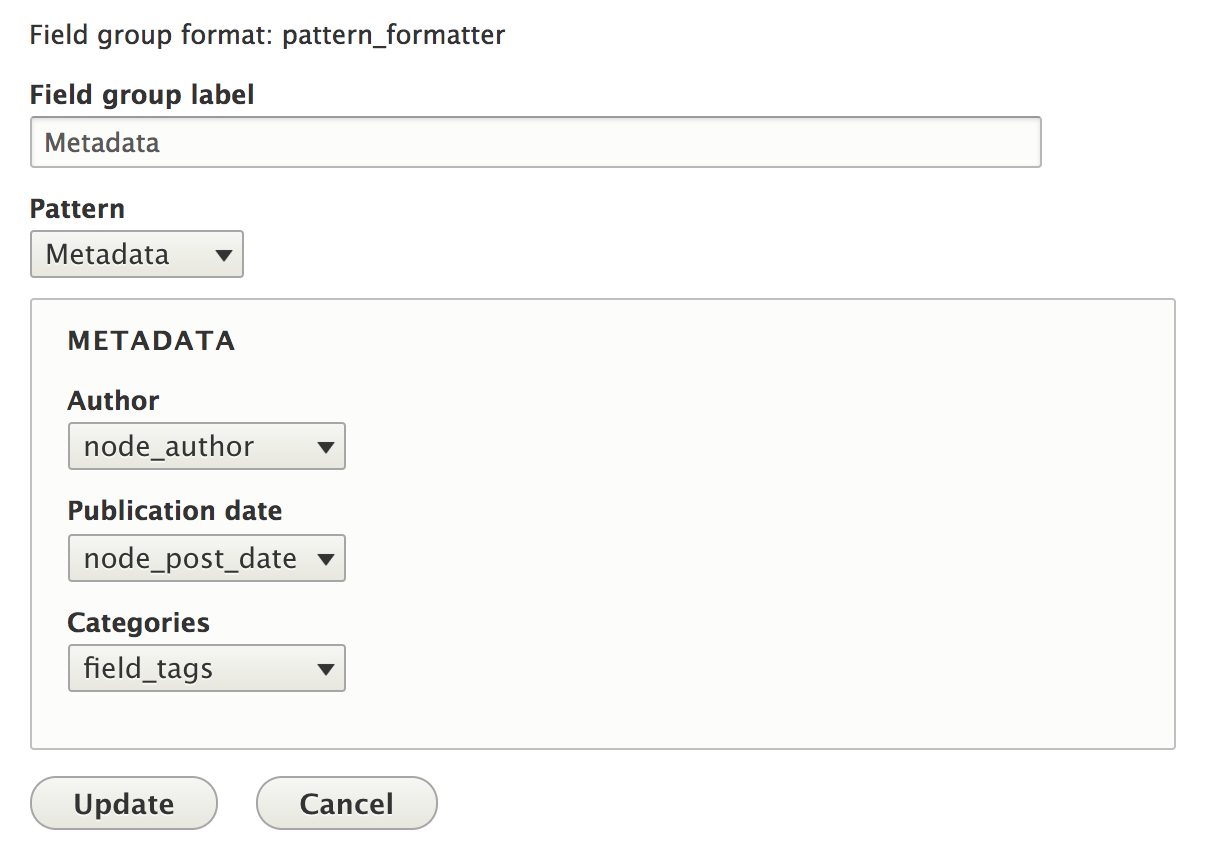
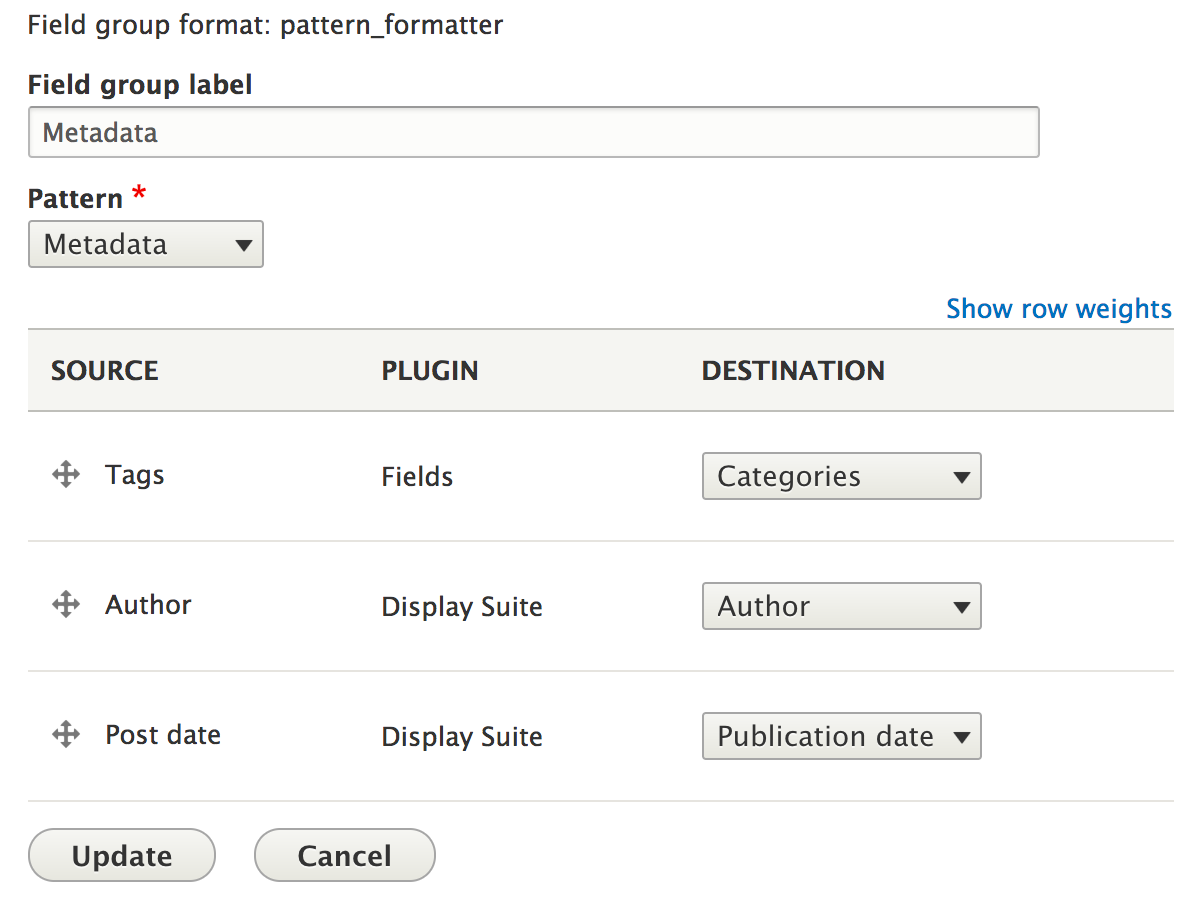
Add documentation.

diff --git a/docs/content/patterns-definition.rst b/docs/content/patterns-definition.rst
@@ -1,8 +1,8 @@
 Define your patterns
 --------------------
 
-UI patterns can be exposed by both modules and themes: all defined patterns are collected and managed by a centralized
-UI Pattern plugin manager, this means that pattern IDs must be unique in order to avoid conflicts.
+Patterns can be exposed by both modules and themes: all defined patterns are collected and managed by a centralized
+plugin manager, this means that pattern IDs must be unique in order to avoid conflicts.
 
 Pattern plugins are described using the `YAML discovery method <https://www.drupal.org/docs/8/api/plugin-api/d8-plugin-discovery>`_.
 To define your patterns simply create a YAML file named ``MY_MODULE.ui_patterns.yml`` or ``MY_THEME.ui_patterns.yml``
@@ -33,8 +33,6 @@ Let's break this down:
 ``id``
     The root of a new pattern definition (``blockquote`` in the example above). It must contain only lowercase
     characters, numbers and underscores (i.e. it should validate against ``[^a-z0-9_]+``).
-``theme hook``
-    If specified it overrides the default ``pattern__[id]`` theme hook.
 ``label``
     Pattern label, used on pattern library page.
 ``description``
@@ -55,7 +53,12 @@ Let's break this down:
     Libraries that are to be loaded when rendering the pattern. UI patterns are supposed to be self-contained so they
     should define along all needed libraries.
 
-Once the pattern is defined it's time to provide its [Twig](http://twig.sensiolabs.org/) template. In order to do so
+Once the pattern is defined the module will expose them as standard Drupal theme definitions.
+
+For example, given the ``my_pattern`` pattern ID then a theme function ``pattern__my_pattern`` is created and,
+consequently, the module will look for a template file called  ``pattern--my-pattern.html.twig``.
+
+Once the pattern is defined it's time to provide its `Twig <http://twig.sensiolabs.org/>`_ template. In order to do so
 we create a Twig file called ``pattern--blockquote.html.twig`` and we place it either under ``MY_MODULE/templates``,
 if the pattern is exposed by a module, or under ``MY_THEME/templates``, if it is exposed by a theme. Obviously themes
 can always override templates exposed by modules.
@@ -74,3 +77,58 @@ The ``blockquote`` pattern defined above will be rendered in the pattern library
 
 .. image:: ../_static/blockquote-preview.png
    :align: center
+
+**Remember**: always visit the ``/pattern`` page in order to have access to a full preview of all your patterns.
+
+Organize your patterns in sub-folders
+=====================================
+
+Patterns can be defined using a single ``.ui_patterns.yml`` file however, in case of sites with a large number of
+patterns, this might quickly becomes difficult to manage.
+
+Luckily pattern definitions can be organised in sub-folders too as shown below:
+
+.. code-block:: bash
+
+    .
+    ├── templates
+    │   └── patterns
+    │       ├── button
+    │       │   ├── button.ui_patterns.yml
+    │       │   └── pattern--button.html.twig
+    │       ├── media
+    │       │   ├── media.ui_patterns.yml
+    │       │   └── pattern--media.html.twig
+    ...
+    │       └── pattern--jumbotron.html.twig
+    ├── ui_patterns_test_theme.info.yml
+    └── ui_patterns_test_theme.ui_patterns.yml
+
+
+**Note:** the example above is taken buy the actual test target site that is used to test the module itself: have a look
+at ``./tests/README.md`` and at ``./tests/target/custom`` for working examples of how to use the UI Patterns module.
+
+Override patterns behavior
+==========================
+
+This default behavior can be changed by using the following properties in you pattern definitions:
+
+``theme hook``
+    If specified it overrides the default ``pattern__[id]`` theme hook with the given value. Template file will change
+    accordingly.
+``template``
+    If specified it overrides only the template file keeping the default ``pattern__[id]`` theme hook.
+``use``
+    If specified it will use a stand alone Twig file as template. The value supports `Twig namespaces <http://symfony.com/doc/current/templating/namespaced_paths.html>`_
+    so the following are valid value examples:
+
+.. code-block:: yaml
+   use: "@my_module/templates/my-template.html.twig"
+   ...
+   use: "@my_theme/templates/my-template.html.twig"
+
+The possibility of using stand-alone Twig templates allows for a swift integration with tools like `PatternLab <http://patternlab.io/>`_
+or modules like `Component Libraries <https://www.drupal.org/project/components>`_.
+
+**Attention:** remember to always double-quote the ``use:`` property's value or `PatternLab <http://patternlab.io/>`_
+will complain.

diff --git a/docs/content/field-group.rst b/docs/content/field-group.rst
@@ -1,18 +1,19 @@
-Use patterns in field groups
-----------------------------
+Use patterns With Field Groups
+------------------------------
 
 Patterns can be used to style your entities' `field groups <https://www.drupal.org/project/field_group>`_ thanks to the
 ``ui_patterns_field_group`` module shipped with the project.
 
-After enabling the module create a new field group of type **Pattern** and drag all fields you want to use in that field group.
+For example, say we want to show some metadata associated with an article, such as author, post date and tags.
 
-In the example below we want to show some metadata associated with an article, such as author, post date and tags:
+After enabling the module we create a new field group of type **Pattern** and drag all fields we want to use in that
+group, as shown below:
 
 .. image:: ../_static/fieldgroup-1.png
    :align: center
    :width: 450
 
-After doing that open the field group settings, choose which pattern you which to use to render the metadata and
+Once the fields are in place After doing that open the field group settings, choose which pattern you which to use to render the metadata and
 map the fields you just moved within the field group with the pattern's field:
 
 .. image:: ../_static/fieldgroup-2.png

diff --git a/docs/content/layout-plugin.rst b/docs/content/layout-plugin.rst
@@ -1,4 +1,4 @@
-Use patterns as layouts
------------------------
+Use patterns with Display Suite
+-------------------------------
 
 Documentation is coming soon, in the meanwhile please check the ``ui_patterns_layouts`` module and related tests.
